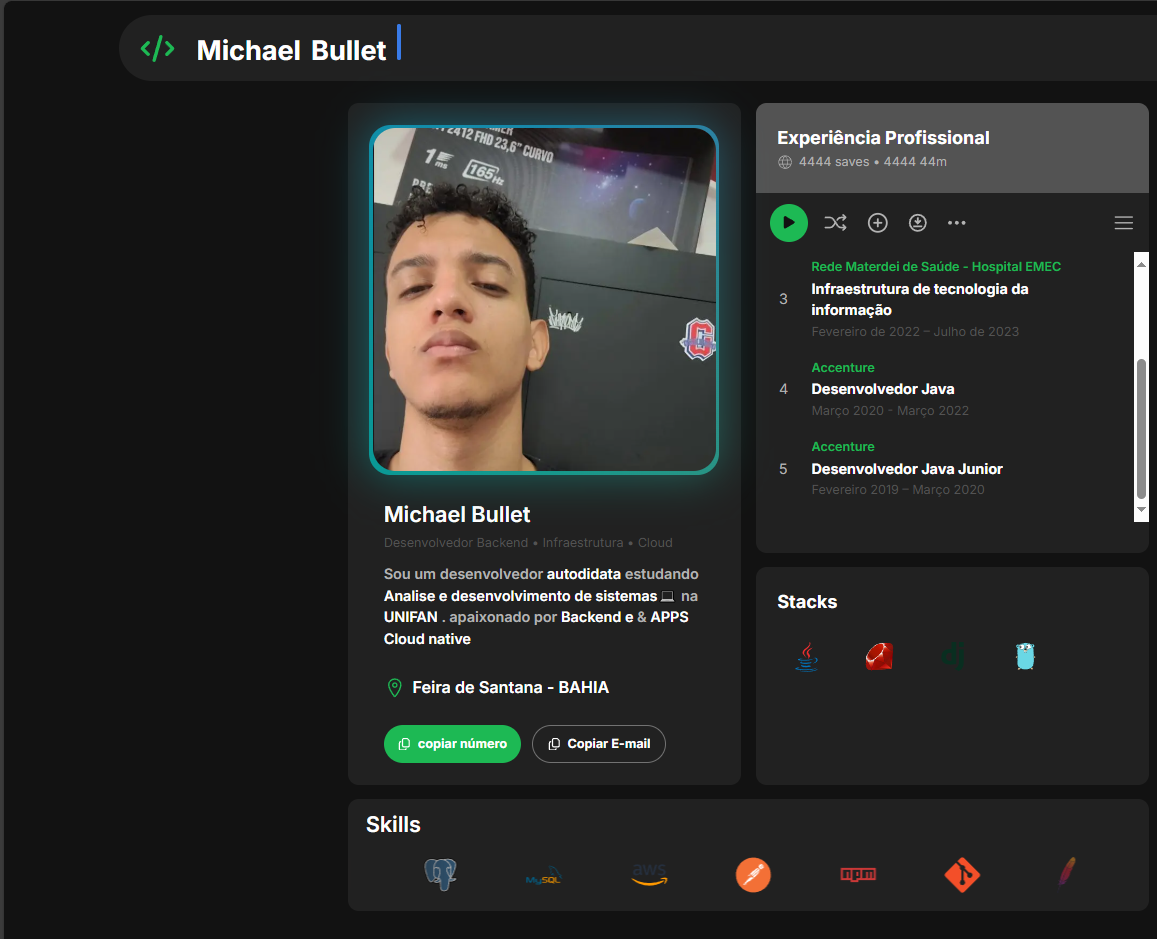
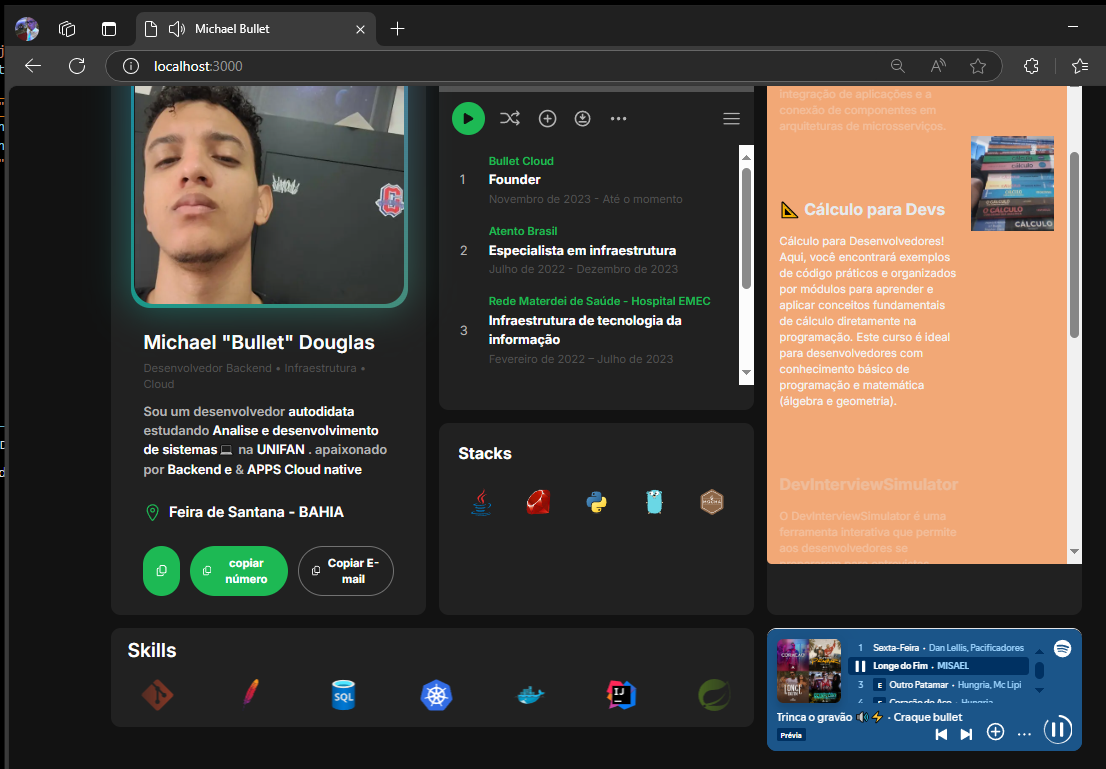
update

diff --git a/src/app/components/sections/Projects.tsx b/src/app/components/sections/Projects.tsx
@@ -43,30 +43,46 @@ const projectLists: {
   {
     title: "API Rest Golang",
     description:
-      "API para gerenciamento de produtos",
+      "API para gerenciamento de produtos , Uma API RESTful é uma interface de programação de aplicativos (API) que permite a troca de informações de forma segura entre dois sistemas de computador, permite a integração de aplicações e a conexão de componentes em arquiteturas de microsserviços. ",
     content: (
       <a target="_blank" href="https://github.com/Bulletdev/bullet-cloud-api">
         <Image
           src="/api.png"
           alt="Requisições aqui: https://bullet-cloud-api.onrender.com"
-          loading="lazy"
           width={500}
-          height={5--}
+          height={500}
         />
       </a>
     ),
   },
   {
-    title: "Git pentest 👨🏻💻",
+    title: "📐 Cálculo para Devs",
     description:
-      "Penetration test for git repo",
+      "Cálculo para Desenvolvedores! Aqui, você encontrará exemplos de código práticos e organizados por módulos para aprender e aplicar conceitos fundamentais de cálculo diretamente na programação. Este curso é ideal para desenvolvedores com conhecimento básico de programação e matemática (álgebra e geometria).",
     content: (
-      <a target="_blank" href="https://github.com/Bulletdev/GitPentest">
+      <a target="_blank" href="https://github.com/ClubeDoJava/CalculoParaDevs">
         <Image
-          src="/pentest.png"
+          src="/calculo.png"
           alt="demo"
           loading="lazy"
-          width={500}
+          width={700}
+          height={300}
+        />
+      </a>
+    ),
+  },
+
+  {
+    title: "DevInterviewSimulator",
+    description:
+      "O DevInterviewSimulator é uma ferramenta interativa que permite aos desenvolvedores se prepararem para entrevistas técnicas com base nas tecnologias e frameworks que eles dominam. O sistema gera perguntas dinâmicas e simula uma entrevista real.",
+      content: (
+      <a target="_blank" href="https://github.com/ClubeDoJava/DevInterviewSimulator">
+        <Image
+          src="/simulador.png"
+          alt="Demo"
+          loading="lazy"
+          width={700}
           height={300}
         />
       </a>
@@ -75,17 +91,21 @@ const projectLists: {
   {
     title: "ShortMe",
     description:
-      "Simple site to group all my profiles on social networks in one place",
+      "O ShortMe é uma plataforma online que permite criar uma página personalizada com vários links para diferentes conteúdos: Redes sociais, Sites, Lojas, Vídeos, Música, Podcasts.  é útil para pessoas e empresas que possuem várias plataformas e desejam compartilhar todas elas de forma organizada.",
       content: (
       <a target="_blank" href="https://github.com/Bulletdev/ShortMe">
         <Image
-          src="/screenshot.png"
+          src="/shortm.png"
           alt="Demo"
           loading="lazy"
-          width={500}
-          height={300}
+          width={800}
+          height={500}
         />
       </a>
     ),
+  },
+  {
+    title: "",
+    description: ""
   },
 ];

diff --git a/src/app/components/sections/ProfileCard.tsx b/src/app/components/sections/ProfileCard.tsx
@@ -72,6 +72,13 @@ function Booking() {
 
   return (
     <div className="flex px-4 gap-3">
+       <button
+        type="button"
+        className="flex items-center justify-center text-sm font-bold bg-spotify-green hover:bg-spotify-dark-green hover:scale-105  px-4 py-2.5 rounded-full gap-2 transition-all duration-200"
+        onClick={handleCopyNumber}
+      >
+        <FaRegCopy /> 
+      </button>
       <button
         type="button"
         className="flex items-center justify-center text-sm font-bold bg-spotify-green hover:bg-spotify-dark-green hover:scale-105  px-4 py-2.5 rounded-full gap-2 transition-all duration-200"
@@ -94,7 +101,7 @@ function PersonalStatement() {
   return (
     <div className="flex flex-col gap-3 px-4">
       <div className="space-y-1.5">
-        <h1 className="text-2xl font-semibold">Michael Bullet</h1>
+        <h1 className="text-2xl font-semibold">Michael "Bullet" Douglas</h1>
         <p className="text-spotify-gray text-sm">
           Desenvolvedor Backend • Infraestrutura • Cloud
         </p>

diff --git a/src/app/components/sections/ProgrammingLanguages.tsx b/src/app/components/sections/ProgrammingLanguages.tsx
@@ -55,7 +55,7 @@ const languageItems: {
     name: "Django",
     component: (
       <Image
-        src="https://cdn.jsdelivr.net/gh/devicons/devicon@latest/icons/django/django-plain.svg"
+        src="https://cdn.jsdelivr.net/gh/devicons/devicon@latest/icons/python/python-original.svg"
         width={32}
         height={32}
         alt="Django"
@@ -70,6 +70,17 @@ const languageItems: {
         width={32}
         height={32}
         alt="Golang"
+      />
+    ),
+  },
+  {
+    name: "Django",
+    component: (
+      <Image
+        src="https://cdn.jsdelivr.net/gh/devicons/devicon@latest/icons/mocha/mocha-original.svg"
+        width={32}
+        height={32}
+        alt="Rust"
       />
     ),
   },

diff --git a/src/app/components/sections/SpotifyAlbum.tsx b/src/app/components/sections/SpotifyAlbum.tsx
@@ -3,7 +3,7 @@ export default function SpotifyAlbum() {
     <div className="max-md:hidden  max-lg:col-span-1  max-lg:row-span-1 col-span-2 row-span-2 col-start-5 row-start-7 bg-spotify-black border-t-2 rounded-xl ">
       <iframe
         className="w-full h-full rounded-xl"
-        src="https://open.spotify.com/embed/album/7txGsnDSqVMoRl6RQ9XyZP?utm_source=generator"
+        src="https://open.spotify.com/embed/playlist/3GmqDtsw56JmFY6cRHChKi?utm_source=generator"
         allow="autoplay; clipboard-write; encrypted-media; fullscreen; picture-in-picture"
         loading="lazy"
         style={{ height: "72%", width: "100%" }}

diff --git a/src/app/components/SocialLinks.tsx b/src/app/components/SocialLinks.tsx
@@ -3,6 +3,7 @@ import Link from "next/link";
 import { FaInstagram } from "react-icons/fa6";
 import { FaLinkedin } from "react-icons/fa6";
 import { FaGithub } from "react-icons/fa6";
+import { GiBulletBill } from "react-icons/gi";
 
 export default function SocialLinks() {
   return (
@@ -42,5 +43,10 @@ const socialMedias: socialMediasProps = [
     title: "Github",
     url: "https://github.com/bulletdev",
     icon: <FaGithub />,
+  },
+  {
+    title: "Bullet",
+    url: "https://github.com/clubedojava",
+    icon: <GiBulletBill />
   },
 ];

diff --git a/src/app/components/sections/OpenedExperienceItem.tsx b/src/app/components/sections/OpenedExperienceItem.tsx
@@ -30,8 +30,7 @@ export default function OpenedExperienceItem({
             <h2 className="text-2xl font-bold">Projects</h2>
             <p className="flex items-center text-spotify-grey text-sm gap-1.5">
               <CiGlobe className="text-xl text-spotify-white" />
-              {personalProjects.length} completed projects • Updated december
-              30, 2024
+              {personalProjects.length} completed projects • Atualizado 07 de Dezembro de 2024
             </p>
           </div>
 

diff --git a/src/app/components/EmbedediFrame.tsx b/src/app/components/EmbedediFrame.tsx
@@ -23,7 +23,7 @@ export default function EmbedediFrame() {
         window.onSpotifyIframeApiReady = (IFrameAPI: any) => {
           const element = playerRef.current;
           const options = {
-            uri: "spotify:track:3GmqDtsw56JmFY6cRHChKi",
+            uri: "spotify:playlist/3GmqDtsw56JmFY6cRHChKi?si=5aba683bb5db4e5c",
             width: "90%",
             height: "90",
             theme: "black",
